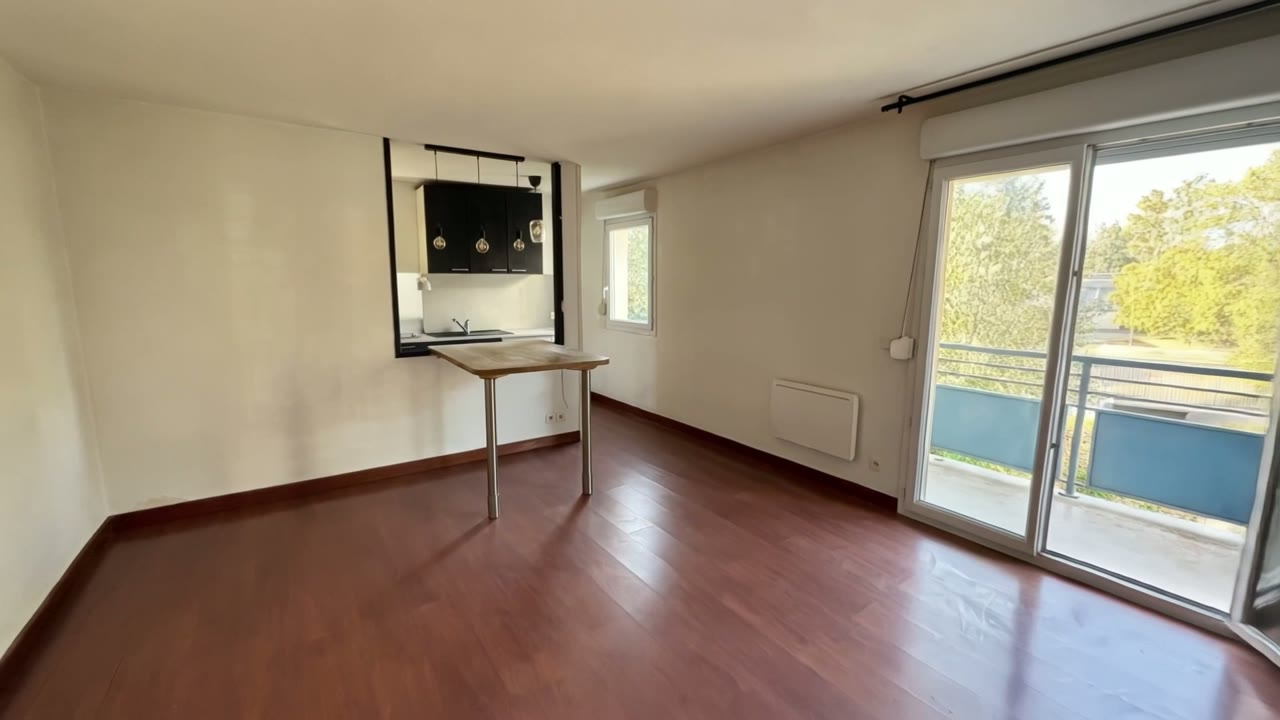
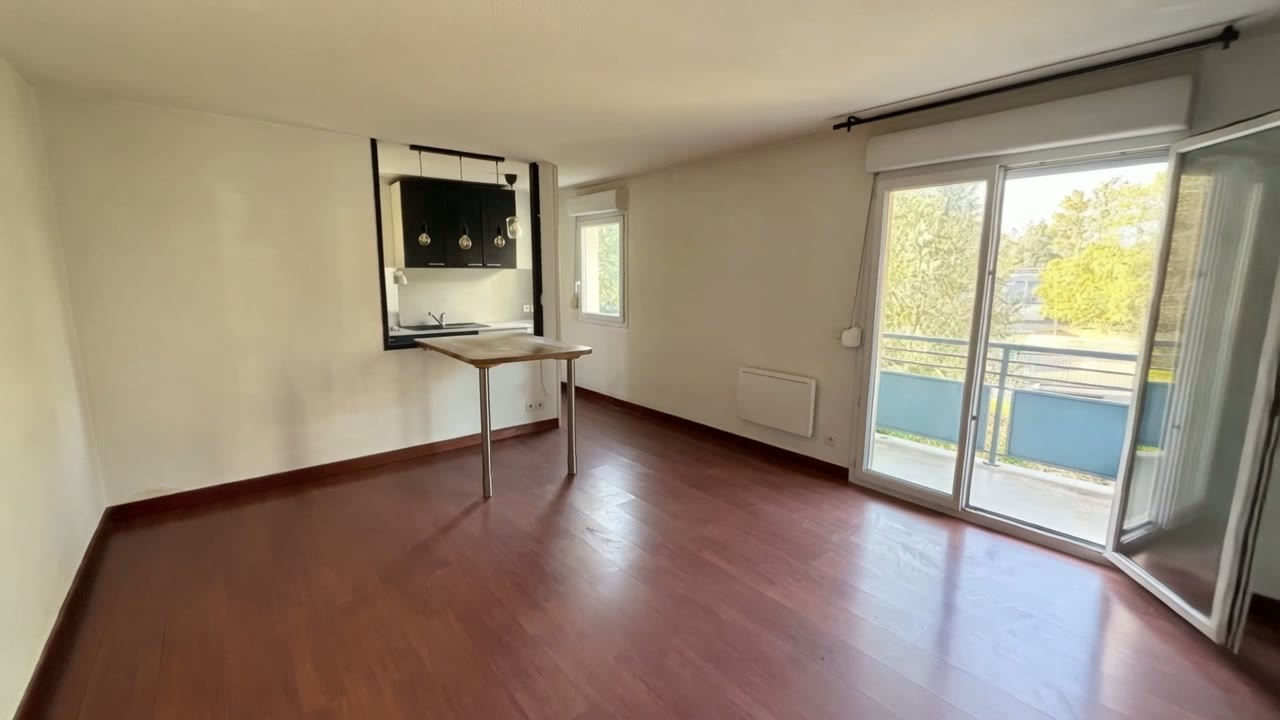
T2 Avignon : film = Video Project.mp4 (nouveau montage + poster), duree 24s

diff --git a/src/lib/projets.ts b/src/lib/projets.ts
@@ -60,7 +60,7 @@ export const PROJETS: Projet[] = [
       { nom: "SÉJOUR → CUISINE", duree: 4 },
       { nom: "SÉJOUR → BALCON", duree: 4 },
     ],
-    duree: 31,
+    duree: 24,
     image: "avignon-poster",
     posPlate: "center 50%",
     video: "avignon.mp4",